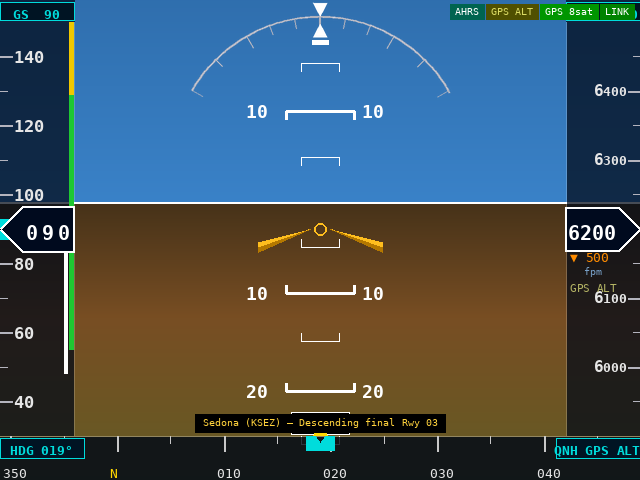
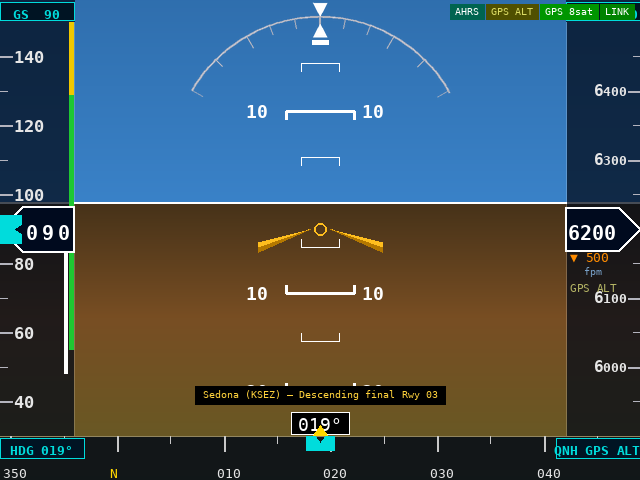
Match bug sizes, fix GS bug layering, clip pitch ladder, fix label overlap
- GS and alt bugs redesigned to 7-point / 28px span with concave V-notch
  matching heading bug proportions; drawn after readout boxes so always visible
- Scenario label moved up 28px to clear the heading readout box
- Pitch ladder clipped at bottom (display y > 414) so it fades before heading tape
- Applied same bug shape and pitch clip changes to pi_display/pfd.py

https://claude.ai/code/session_017SH8gTHM3ctk1qfSPqffyG

Changed region(s): [[0.2812, 0.7812, 0.7188, 0.9062], [0.0, 0.4375, 0.0312, 0.5312]]

diff --git a/tools/preview_640x480.py b/tools/preview_640x480.py
@@ -166,7 +166,9 @@ def draw_scene(roll, pitch, hdg, alt, speed, vspeed, ay,
     for deg in range(-30, 35, 5):
         if deg == 0: continue
         ly   = hy - int(focal * math.tan(deg * DEG))
-        if ly < H*2 - CY + 44:   # don't draw above roll arc area (display y < 44)
+        if ly < H*2 - CY + 44:    # don't draw above roll arc area (display y < 44)
+            continue
+        if ly > H*2 - CY + HDG_Y - 22:  # don't draw below heading tape (display y > 414)
             continue
         major = (deg % 10 == 0)
         half  = major_half if major else minor_half
@@ -253,14 +255,6 @@ def draw_scene(roll, pitch, hdg, alt, speed, vspeed, ay,
         if major:
             draw.text((SPD_X+tl+2, vy-9), str(v), fill=(230,230,230), font=fnt(17, bold=True))
 
-    # GS bug — on outer (left) edge, V-notch receives box point
-    if gs_bug is not None:
-        gby = spd_y(gs_bug)
-        if TAPE_TOP < gby < TAPE_BOT:
-            gb = [(SPD_X, gby-10), (SPD_X+20, gby-10),
-                  (SPD_X+26, gby), (SPD_X+20, gby+10), (SPD_X, gby+10)]
-            draw.polygon(gb, fill=CYAN)
-
     # Speed box — convex point on outer (left/screen-edge) side, 90° tip
     bh = 44; by = TAPE_MID - bh//2; pd = bh//2  # pd=22 → 135° corners, 90° tip
     pts = [(SPD_X+SPD_W, by), (SPD_X+pd, by),
@@ -271,6 +265,15 @@ def draw_scene(roll, pitch, hdg, alt, speed, vspeed, ay,
     spd_col = RED if speed > VNE else (YELLOW if speed > VNO else WHITE)
     # Drum starts at flat part of box (SPD_X+pd), same font_sz as alt
     rolling_drum(img, SPD_X+pd+2, TAPE_MID-17, SPD_W-pd-4, 34, speed, 3, spd_col, 20)
+
+    # GS bug — 7-point with concave notch matching heading bug style (28px tall, 21px wide)
+    if gs_bug is not None:
+        gby = spd_y(gs_bug)
+        if TAPE_TOP < gby < TAPE_BOT:
+            gb = [(SPD_X, gby-14),
+                  (SPD_X+21, gby-14), (SPD_X+21, gby-5), (SPD_X+14, gby),
+                  (SPD_X+21, gby+5),  (SPD_X+21, gby+14), (SPD_X, gby+14)]
+            draw.polygon(gb, fill=CYAN)
 
     # GS bug button — top strip of speed tape
     gs_str = f"{round(gs_bug):3d}" if gs_bug is not None else "---"
@@ -306,13 +309,6 @@ def draw_scene(roll, pitch, hdg, alt, speed, vspeed, ay,
                 tw = int(f_s.getlength(s))
                 draw.text((ALT_X+ALT_W-tl-2-tw, fy-8), s, fill=(230,230,230), font=f_s)
 
-    # Altitude bug — on outer (right/screen-edge) side
-    aby = alt_y(alt_bug)
-    if TAPE_TOP < aby < TAPE_BOT:
-        bug = [(ALT_X+ALT_W, aby-10), (ALT_X+ALT_W-20, aby-10),
-               (ALT_X+ALT_W-26, aby), (ALT_X+ALT_W-20, aby+10), (ALT_X+ALT_W, aby+10)]
-        draw.polygon(bug, fill=CYAN)
-
     # Alt box — convex point on outer (right/screen-edge) side, 90° tip
     bh = 44; by = TAPE_MID - bh//2; pd = bh//2  # pd=22 → 135° corners, 90° tip
     pts = [(ALT_X, by), (ALT_X+ALT_W-pd, by),
@@ -323,6 +319,14 @@ def draw_scene(roll, pitch, hdg, alt, speed, vspeed, ay,
     # Rolling drum: 4 digits, fits in flat part of box, same font_sz as speed
     rolling_drum(img, ALT_X+2, TAPE_MID-17, ALT_W-pd-4, 34, alt, 4, WHITE, 20,
                  suppress_leading=True)
+
+    # Altitude bug — 7-point with concave notch matching heading bug style (28px tall, 21px wide)
+    aby = alt_y(alt_bug)
+    if TAPE_TOP < aby < TAPE_BOT:
+        bug = [(ALT_X+ALT_W, aby-14),
+               (ALT_X+ALT_W-21, aby-14), (ALT_X+ALT_W-21, aby-5), (ALT_X+ALT_W-14, aby),
+               (ALT_X+ALT_W-21, aby+5),  (ALT_X+ALT_W-21, aby+14), (ALT_X+ALT_W, aby+14)]
+        draw.polygon(bug, fill=CYAN)
 
     # VSI
     arrow = "\u25b2" if vspeed > 30 else ("\u25bc" if vspeed < -30 else "\u2014")
@@ -497,9 +501,9 @@ def draw_scene(roll, pitch, hdg, alt, speed, vspeed, ay,
 
     # ── 11. SCENARIO LABEL ────────────────────────────────────────────────────
     lw = len(label)*6 + 16
-    draw.rectangle([(CX-lw//2, HDG_Y-22),(CX+lw//2, HDG_Y-4)],
+    draw.rectangle([(CX-lw//2, HDG_Y-50),(CX+lw//2, HDG_Y-32)],
                    fill=(0,0,0))
-    draw.text((CX-lw//2+8, HDG_Y-20), label, fill=(255,210,60), font=fnt(10))
+    draw.text((CX-lw//2+8, HDG_Y-48), label, fill=(255,210,60), font=fnt(10))
 
     img.save(filename)
     print(f"Saved {filename}")

diff --git a/pi_display/pfd.py b/pi_display/pfd.py
@@ -281,6 +281,8 @@ def draw_pitch_ladder(surf, ai_rect, pitch, roll):
         row_y = ccy + pitch_px - int(deg * px_per_deg)
         if row_y < ccy - 185:   # don't draw above roll arc area (display y < 44)
             continue
+        if row_y > ccy + 185:   # don't draw below heading tape (display y > 414)
+            continue
         if not (10 < row_y < ch - 10):
             continue
         major = (deg % 10 == 0)
@@ -517,12 +519,13 @@ def draw_speed_tape(surf, speed, gs_bug=None):
     # Drum starts at flat part of box (SPD_X+pd), same font_sz as alt
     _rolling_drum(surf, SPD_X + pd + 2, TAPE_MID - 17, SPD_W - pd - 4, 34, speed, 3, spd_col, 20)
 
-    # GS bug arrow — outer (left) edge, V-notch receives box tip
+    # GS bug — 7-point with concave notch matching heading bug style (28px tall, 21px wide)
     if gs_bug is not None:
-        gby = spd_y(gs_bug)
+        gby = spd_y(gs_bug, speed)
         if TAPE_TOP < gby < TAPE_BOT:
-            gb = [(SPD_X, gby - 10), (SPD_X + 20, gby - 10),
-                  (SPD_X + 26, gby), (SPD_X + 20, gby + 10), (SPD_X, gby + 10)]
+            gb = [(SPD_X, gby - 14),
+                  (SPD_X + 21, gby - 14), (SPD_X + 21, gby - 5), (SPD_X + 14, gby),
+                  (SPD_X + 21, gby + 5),  (SPD_X + 21, gby + 14), (SPD_X, gby + 14)]
             pygame.draw.polygon(surf, CYAN, gb)
 
     # GS bug button — top strip of speed tape
@@ -569,15 +572,6 @@ def draw_alt_tape(surf, alt, vspeed, baro_hpa, baro_src, alt_bug=None):
                 _text(surf, s, 13, (230, 230, 230), bold=True,
                       x=ALT_X + ALT_W - tl - 2 - lw, y=fy - 8)
 
-    # Altitude bug
-    if alt_bug is not None:
-        aby = ay2(alt_bug)
-        if TAPE_TOP < aby < TAPE_BOT:
-            bug = [(ALT_X + ALT_W, aby - 10), (ALT_X + ALT_W - 20, aby - 10),
-                   (ALT_X + ALT_W - 26, aby), (ALT_X + ALT_W - 20, aby + 10),
-                   (ALT_X + ALT_W, aby + 10)]
-            pygame.draw.polygon(surf, CYAN, bug)
-
     # ALT bug button — top strip of alt tape
     alt_str = f"{round(alt_bug):5d}" if alt_bug is not None else "-----"
     _cyan_box(surf, "ALT", alt_str, x=ALT_X, y=2, w=ALT_W, h=18)
@@ -594,6 +588,15 @@ def draw_alt_tape(surf, alt, vspeed, baro_hpa, baro_src, alt_bug=None):
     # Rolling drum: 4 digits, fits in flat part of box, same font_sz as speed
     _rolling_drum(surf, ALT_X + 2, TAPE_MID - 17, ALT_W - pd - 4, 34, alt, 4, WHITE, 20,
                   suppress_leading=True)
+
+    # Altitude bug — 7-point with concave notch matching heading bug style (28px tall, 21px wide)
+    if alt_bug is not None:
+        aby = ay2(alt_bug)
+        if TAPE_TOP < aby < TAPE_BOT:
+            bug = [(ALT_X + ALT_W, aby - 14),
+                   (ALT_X + ALT_W - 21, aby - 14), (ALT_X + ALT_W - 21, aby - 5), (ALT_X + ALT_W - 14, aby),
+                   (ALT_X + ALT_W - 21, aby + 5),  (ALT_X + ALT_W - 21, aby + 14), (ALT_X + ALT_W, aby + 14)]
+            pygame.draw.polygon(surf, CYAN, bug)
 
     # VSI (vertical speed)
     arrow = "▲" if vspeed > 30 else ("▼" if vspeed < -30 else "—")
